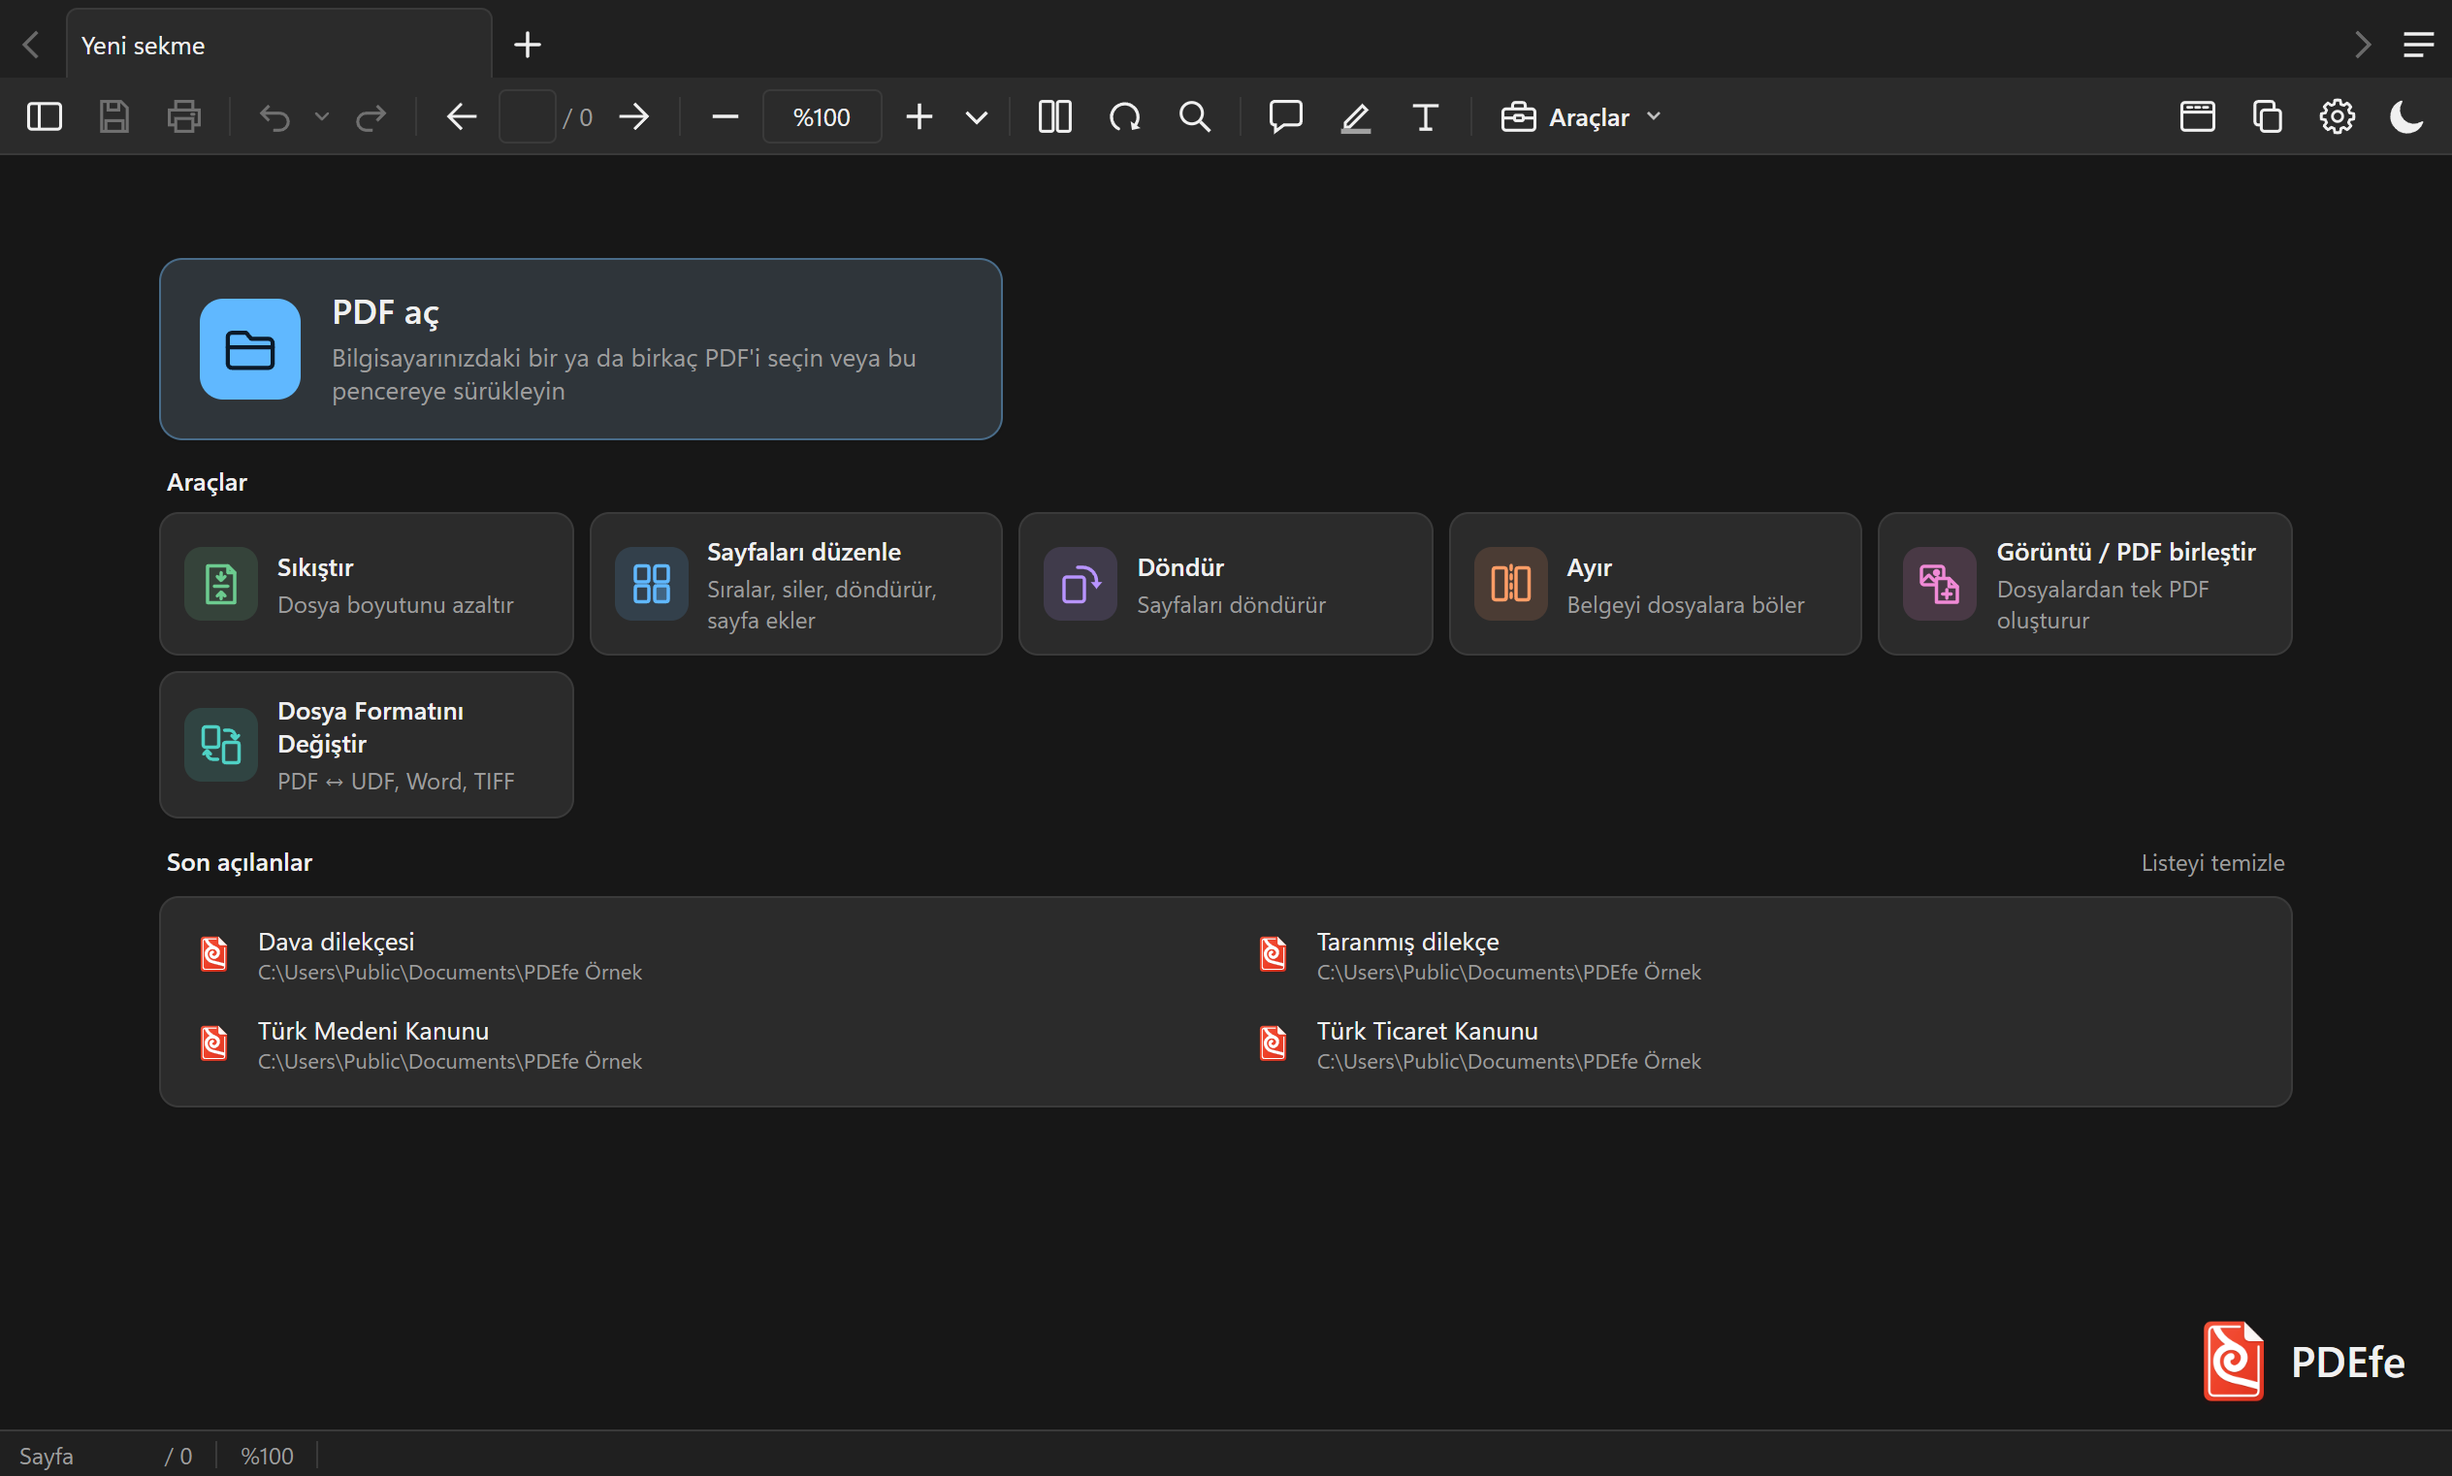
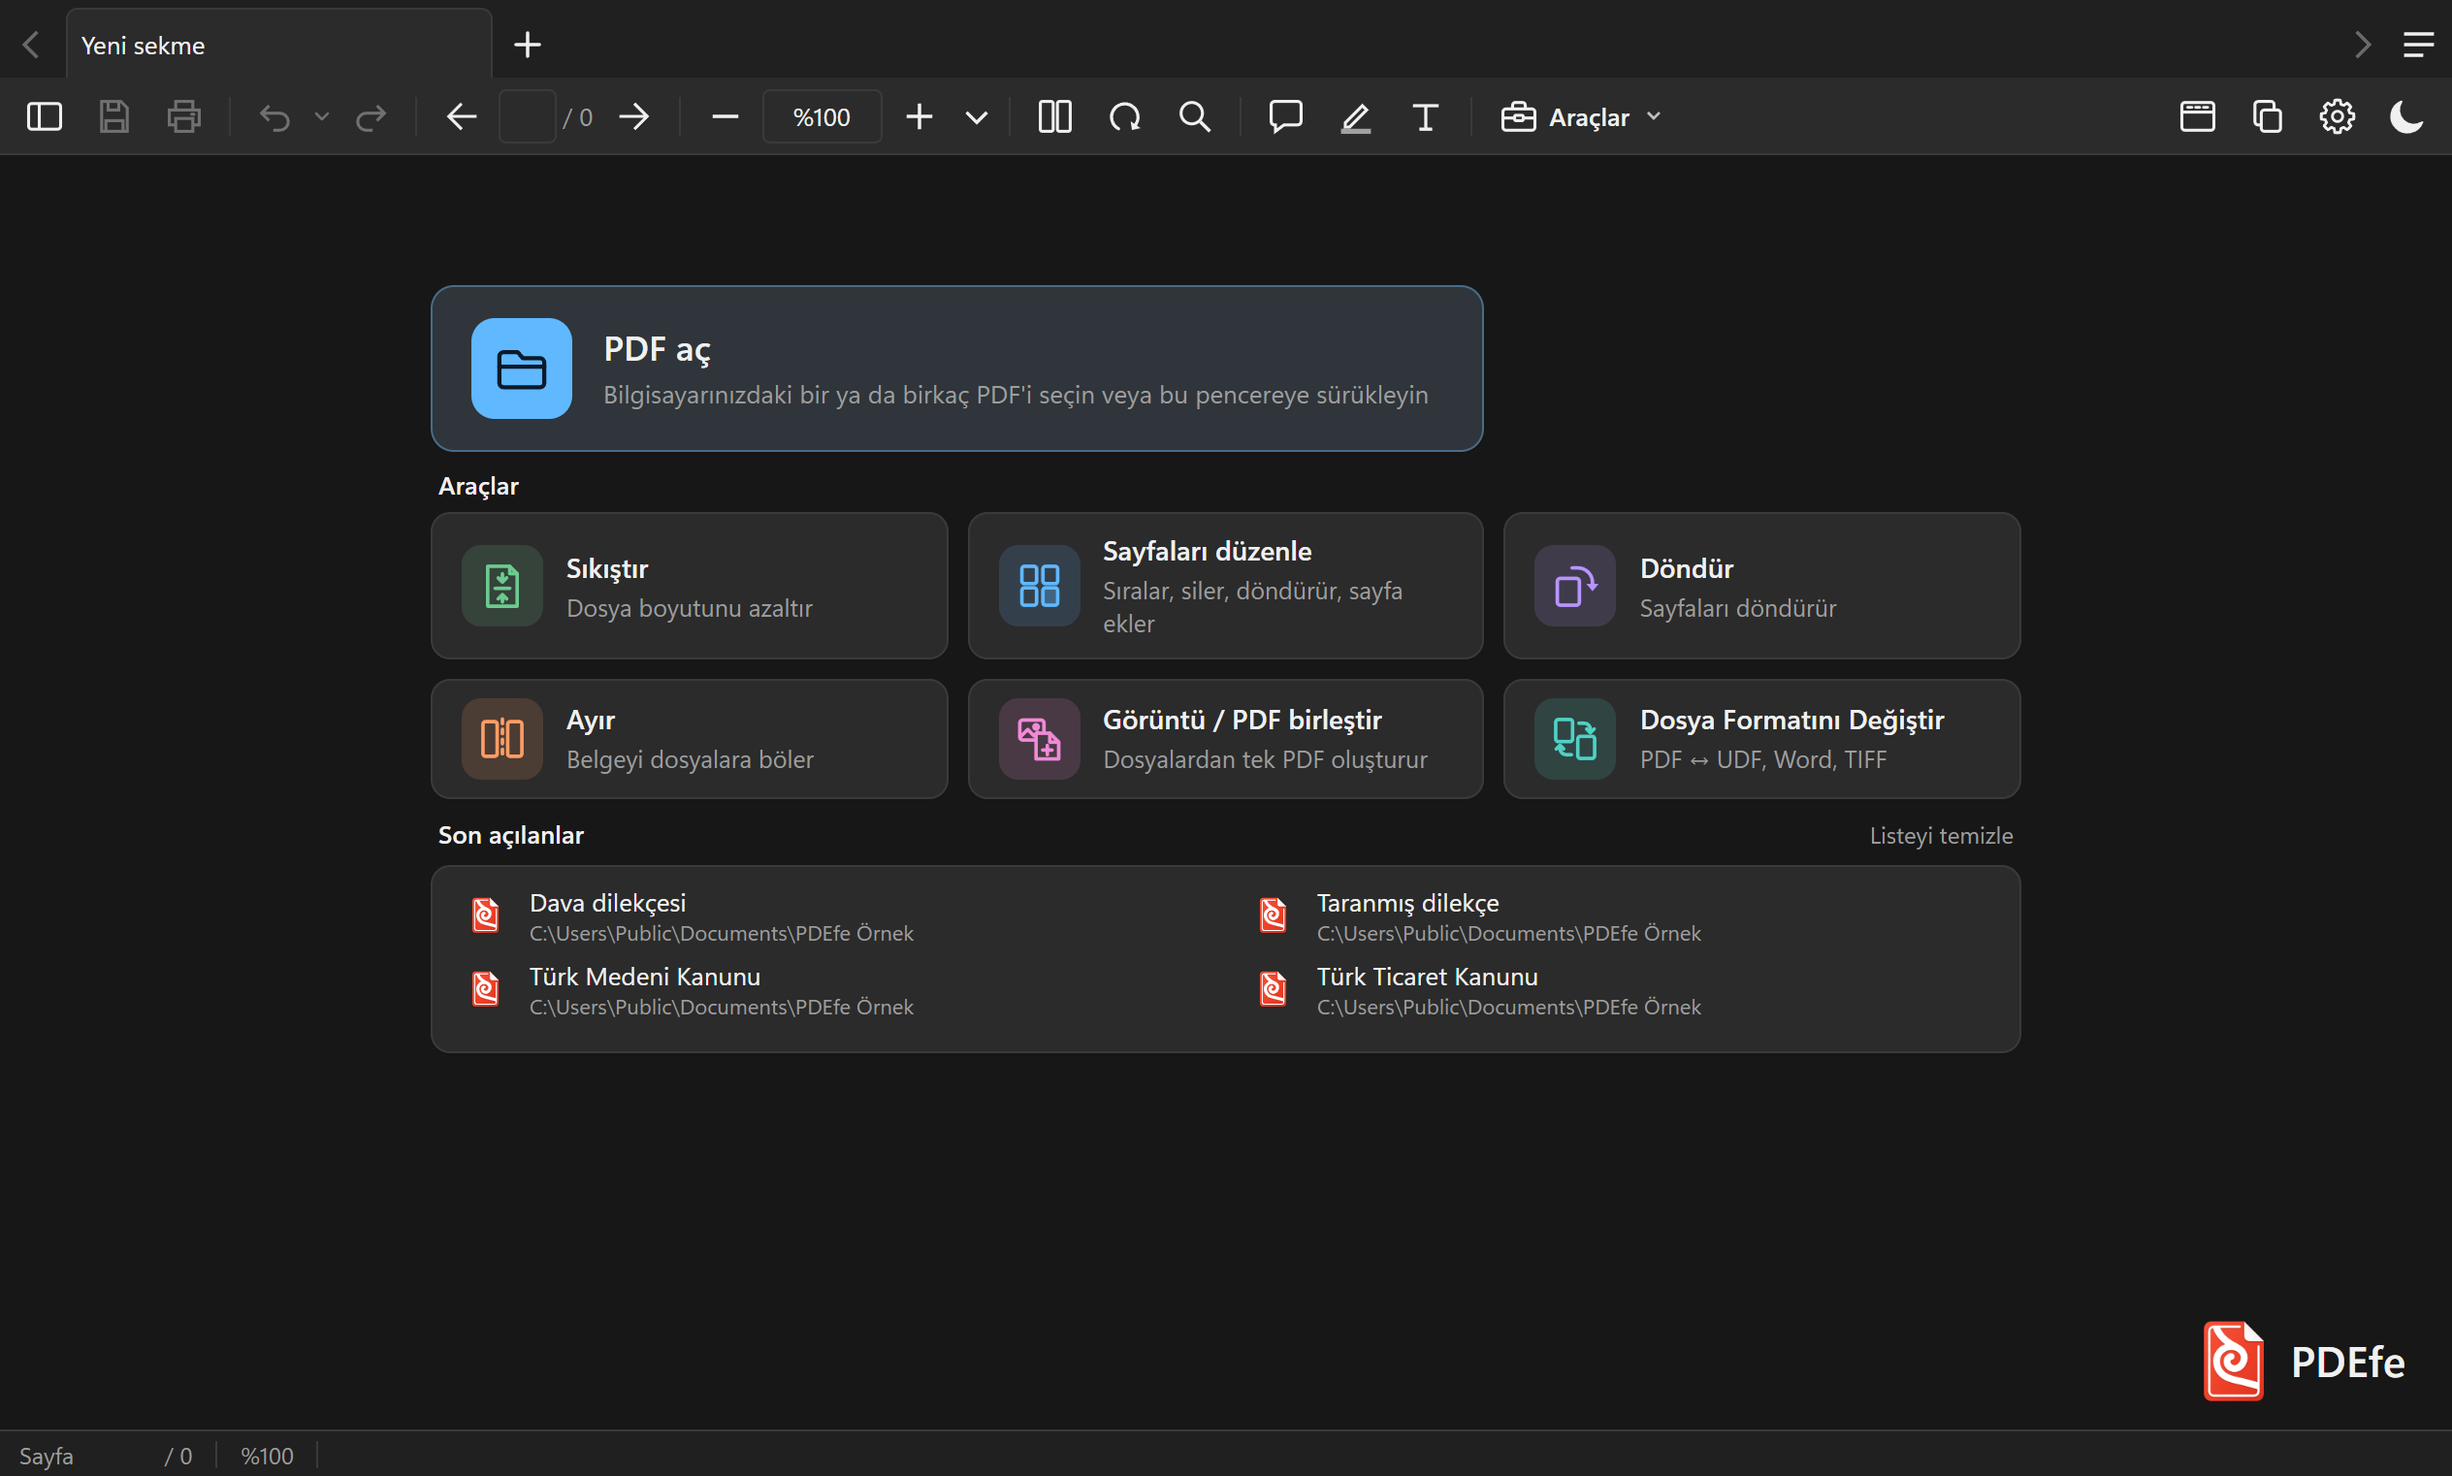
0.2.6: Açılış ekranında altı araç iki satırda, üçer üçer; karolar biraz büyük
Kullanıcı isteği: "6 tanesi toplam iki satır olsun, 2 2 2 şeklinde; hafif büyüt butonlarını; son
açılanları da 2 2 2'nin toplam uzunluğuna uydur, hafif daralabilir." Araçlar her genişlikte üç sütun ×
iki satır (dar alanda iki ya da tek sütun), sütun 1100 → 820 px, son açılanlar aynı genişlikte. Karoların
iç boşluğu, simgesi ve yazıları biraz büyüdü; PDF aç ikinci karoyla hizalı kalır. Alçak pencerede boşluklar
sıkışır, 1280×700'de 10 son açılan belgeyle ekran kaymaz. senaryo13, senaryo14 ve paket_duman'ın eski
beklentileri güncellendi; README'nin açılış ekranı görüntüleri yenilendi.

diff --git a/src/renderer/stil.css b/src/renderer/stil.css
@@ -383,11 +383,16 @@ html.metin-seciliyor, html.metin-seciliyor * { cursor: text !important; }
   display: grid; grid-template-columns: minmax(0, 1fr); grid-template-rows: minmax(20px, 1fr) auto minmax(28px, 2fr) auto;
   container-type: inline-size;
 }
-/* Tek sütun: PDF aç, araçlar (geniş pencerede beşi bir satırda), son açılanlar */
+/* Tek sütun: PDF aç, araçlar, son açılanlar. 0.2.6, kullanıcı isteği ("6 tanesi toplam iki satır olsun, 2 2 2 şeklinde; hafif büyüt
+   butonlarını; son açılanları da 2 2 2'nin toplam uzunluğuna uydur, hafif daralabilir"): altı araç her genişlikte üç sütun × iki satır
+   (Araçlar penceresindeki gibi), karolar biraz büyük; sütun genişliği 1100 → 820 px, son açılanlar da aynı genişlikte (aynı sütunun
+   içinde). Alan daralınca iki sütun (üç satır), çok dar alanda tek sütun */
 .karsilama {
-  --karsilama-sutunlar: repeat(auto-fill, minmax(185px, 1fr)); --karsilama-aralik: 8px;   /* araç ızgarası ve PDF aç'ın satırı (aşağıda) */
-  grid-row: 2; justify-self: center; width: min(1100px, 100%); display: flex; flex-direction: column; gap: 22px;
+  --karsilama-sutunlar: repeat(3, minmax(0, 1fr)); --karsilama-aralik: 10px;   /* araç ızgarası ve PDF aç'ın satırı (aşağıda) */
+  grid-row: 2; justify-self: center; width: min(820px, 100%); display: flex; flex-direction: column; gap: 22px;
 }
+@container (max-width: 600px) { .karsilama { --karsilama-sutunlar: repeat(2, minmax(0, 1fr)); } }
+@container (max-width: 400px) { .karsilama { --karsilama-sutunlar: minmax(0, 1fr); } }
 .karsilama h2 { margin: 0; font-size: 13px; font-weight: 600; }
 .karsilama-metin { display: flex; flex-direction: column; gap: 3px; min-width: 0; }
 .karsilama-aciklama { font-size: 12px; color: var(--metin-soluk); line-height: 1.35; }
@@ -405,7 +410,7 @@ html.metin-seciliyor, html.metin-seciliyor * { cursor: text !important; }
    sol panel açıkken de); 860 px'in üstünde boşluklar sığıyor */
 @media (max-height: 860px) {
   #baslangic { grid-template-rows: minmax(12px, 1fr) auto minmax(12px, 2fr) auto; }
-  .karsilama { gap: 12px; }
+  .karsilama { gap: 8px; }
   .karsilama-imza { padding-top: 0; }
 }
 /* İmzanın ölçüleri (0.2.2, kullanıcı isteği: büyüsün; dört boyut görselle gösterildi, kullanıcı "simge ile yazılar birbirine daha yakın
@@ -454,7 +459,7 @@ html[data-tema="koyu"] .karsilama-ac-ikon { color: #0b1a2a; }
 .karsilama-araclar h2 { padding: 0 4px; }
 .karsilama-arac-izgara { display: grid; grid-template-columns: var(--karsilama-sutunlar); gap: var(--karsilama-aralik); }
 .karsilama-arac {
-  display: flex; align-items: center; gap: 10px; min-width: 0; padding: 10px 12px; text-align: left; cursor: default;
+  display: flex; align-items: center; gap: 12px; min-width: 0; padding: 13px 15px; text-align: left; cursor: default;
   background: var(--arka-yukseltilmis); color: var(--metin); border: 1px solid var(--kenar); border-radius: 10px;
   box-shadow: 0 1px 2px rgba(0, 0, 0, 0.06); outline: none; transition: border-color 0.1s, background-color 0.1s;
 }
@@ -463,12 +468,13 @@ html[data-tema="koyu"] .karsilama-ac-ikon { color: #0b1a2a; }
 .karsilama-arac:focus-visible { outline: 2px solid var(--vurgu); outline-offset: 2px; }
 .karsilama-arac-ikon {
   --ikon-arka: color-mix(in srgb, var(--renk) 15%, var(--arka-yukseltilmis));
-  width: 38px; height: 38px; flex: none; border-radius: 9px; display: flex; align-items: center; justify-content: center;
+  width: 42px; height: 42px; flex: none; border-radius: 10px; display: flex; align-items: center; justify-content: center;
   color: var(--renk); background: var(--ikon-arka);
 }
-.karsilama-arac-ikon svg { width: 24px; height: 24px; display: block; }
+.karsilama-arac-ikon svg { width: 26px; height: 26px; display: block; }
 .karsilama-arac-ikon .dolgu { fill: var(--ikon-arka); }
-.karsilama-arac-ad { font-size: 13px; font-weight: 600; }
+.karsilama-arac-ad { font-size: 14px; font-weight: 600; }
+.karsilama-arac .karsilama-aciklama { font-size: 12.5px; }
 .karsilama-arac[data-renk="yesil"] { --renk: #107c41; }
 .karsilama-arac[data-renk="mavi"] { --renk: #0067c0; }
 .karsilama-arac[data-renk="mor"] { --renk: #7a3fd1; }
@@ -507,6 +513,14 @@ html[data-tema="koyu"] .karsilama-arac[data-renk="turkuaz"] { --renk: #4fd1c5; }
 .karsilama-oge-metin { display: flex; flex-direction: column; min-width: 0; }
 .karsilama-oge .ad { font-size: 13px; overflow: hidden; text-overflow: ellipsis; white-space: nowrap; }
 .karsilama-oge .yol { font-size: 11px; color: var(--metin-soluk); overflow: hidden; text-overflow: ellipsis; white-space: nowrap; }
+/* 0.2.6: altı araç iki satır ve karolar büyüdü (yukarıda); 1280×700'de 10 belgeyle 62 px taşıyordu. Alçak pencerede (yukarıdaki 860 px
+   eşiği; bölümler arası orada 12 → 8) başlık ile kutu arası 8 → 6, karoların üst / alt iç boşluğu 13 → 9, son açılanların satırları
+   46 → 38 px; simge ve yazı boyları değişmez. Bu kurallar asıllarından sonra gelmeli (aynı özgüllük) */
+@media (max-height: 860px) {
+  .karsilama-araclar, .karsilama-son { gap: 6px; }
+  .karsilama-arac { padding-top: 9px; padding-bottom: 9px; }
+  .karsilama-oge { padding-top: 3px; padding-bottom: 3px; }
+}
 /* Satırdaki × yalnızca satırın üzerindeyken ya da satır klavyeyle seçiliyken görünür */
 .karsilama-kaldir {
   position: absolute; right: 6px; top: 50%; transform: translateY(-50%); width: 26px; height: 26px; padding: 0; border: none; border-radius: 5px;

diff --git a/PLAN.md b/PLAN.md
@@ -2825,7 +2825,13 @@ Her bulgu önce yeniden üretildi ya da kod izlendi; gerçekse önce düşen tes
     makrosunun çalışmadığı makrolu belgeyle sınanmadı (Word'de VBA erişim güveni ayarını değiştirmek gerekirdi; yerine AutomationSecurity'nin belge
     açılmadan 3 olduğu okundu); izlenen değişiklikli ve yorumlu belgede sonuç denetlenmedi.
   - Dönüştürme kanalları: var olan PDF dışı hedefin üzerine yazmayı ana süreç onaya bağlamıyor (araç soruyor).
-  - Açılış ekranında geniş pencerede araçlar 5 + 1 diziliyor (ızgara otomatik sütunlu; Araçlar penceresinde 3 + 3); değiştirmek PDF aç'ın ikinci
-    karoyla hizasını (0.2.3 isteği) etkiler, karar kullanıcının.
+  - (Çözüldü, kullanıcı kararı: "6 tanesi toplam iki satır olsun, 2 2 2 şeklinde; hafif büyüt butonlarını; son açılanları da 2 2 2'nin
+    toplam uzunluğuna uydur, hafif daralabilir") Açılış ekranında araçlar artık her genişlikte üç sütun × iki satır (alan 600 px'ten darsa iki,
+    400 px'ten darsa tek sütun; container query). Sütun 1100 → 820 px; son açılanlar aynı sütunda, aynı genişlikte. Karolar: iç boşluk
+    10/12 → 13/15 px, simge kutusu 38 → 42, simge 24 → 26, ad 13 → 14 px, açıklama 12 → 12,5 px. PDF aç yine iki sütun kaplar, sağ kenarı
+    Sayfaları düzenle'nin sağ kenarında (acilis_hizasi). İki satır ve büyük karolarla 1280×700'de 10 belgeyle 62 px taşıyordu: alçak pencerede
+    (≤ 860 px) bölümler arası 12 → 8, başlık–kutu 8 → 6, karoların üst / alt iç boşluğu 9 px, son açılan satırı 46 → 38 px; senaryo20 52/52.
+    Beklentisi eski üç test güncellendi: senaryo13 (6 karo, 3 + 3 klavye yolu), senaryo14 (6 araç, Kaydetme'de UYAP Doküman Editörü kartı),
+    paket_duman (0.2.4'ten beri imza "Sürüm X · ").
   - senaryo37'nin 8. bölümü ikinci örneği olağan masaüstünde başlatıyor: ekran kuralı gereği koşulmadı; görünmeyen masaüstüne taşınmalı.
 - [ ] Kullanıcı doğrulaması: docs/DOGRULAMA.md 41.

diff --git a/CHANGELOG.md b/CHANGELOG.md
@@ -17,6 +17,7 @@ otomatik olarak kopyalanır (`.github/workflows/yayim.yml`).
 - **Ayarlar › Kaydetme › Otomatik kaydet** açıksa, kaydedilmemiş değişikliği olan belge yazdırılmadan önce sorulmadan kaydediliyor (bu ayar yazdırmada uygulanmıyordu).
 
 ### Yeni araç: Dosya Formatını Değiştir
+- **Açılış ekranında altı araç iki satırda, üçer üçer** (Araçlar penceresindeki gibi); karolar biraz büyüdü. Son açılanlar listesi araçlarla aynı genişlikte, biraz daha dar. Alçak pencerede boşluklar biraz sıkışır, 10 son açılan belge yine kaydırmadan sığar.
 - **UDF ↔ PDF, Word ↔ PDF, TIFF ↔ PDF.** Araçlar penceresinde, açılış ekranında ve Araçlar menüsünde. Dosyalar **Dosya ekle**'yle ya da pencereye sürüklenerek eklenir, birden çok dosya birlikte dönüştürülür. Her satırda dosyanın küçük resmi, türü, sayfa sayısı ve hedef biçim (PDF, UDF, Word, TIFF) görünür. PDF olmayan iki biçim arasında da (örneğin Word → UDF, UDF → Word) dönüştürülür; PDEfe arada PDF'ten geçer.
 - Bir PDF açıkken araç açılırsa o PDF listede hazırdır. UDF, TIFF ve Word dosyaları PDEfe'nin penceresine bırakılınca, Gezgin'de "Birlikte aç" ile ya da `Ctrl+O` ile açılınca araç o dosyalarla açılır (PDF'ler eskisi gibi sekmede açılır). UDF'ye çift tıklamak eskisi gibi UYAP Doküman Editörü'nü açar.
 - Dosyanın türü uzantısından değil içeriğinden anlaşılır; tanınmayan dosya dönüştürülmez, satırda nedeni yazar. Her türün son seçtiğiniz hedefi hatırlanır.
